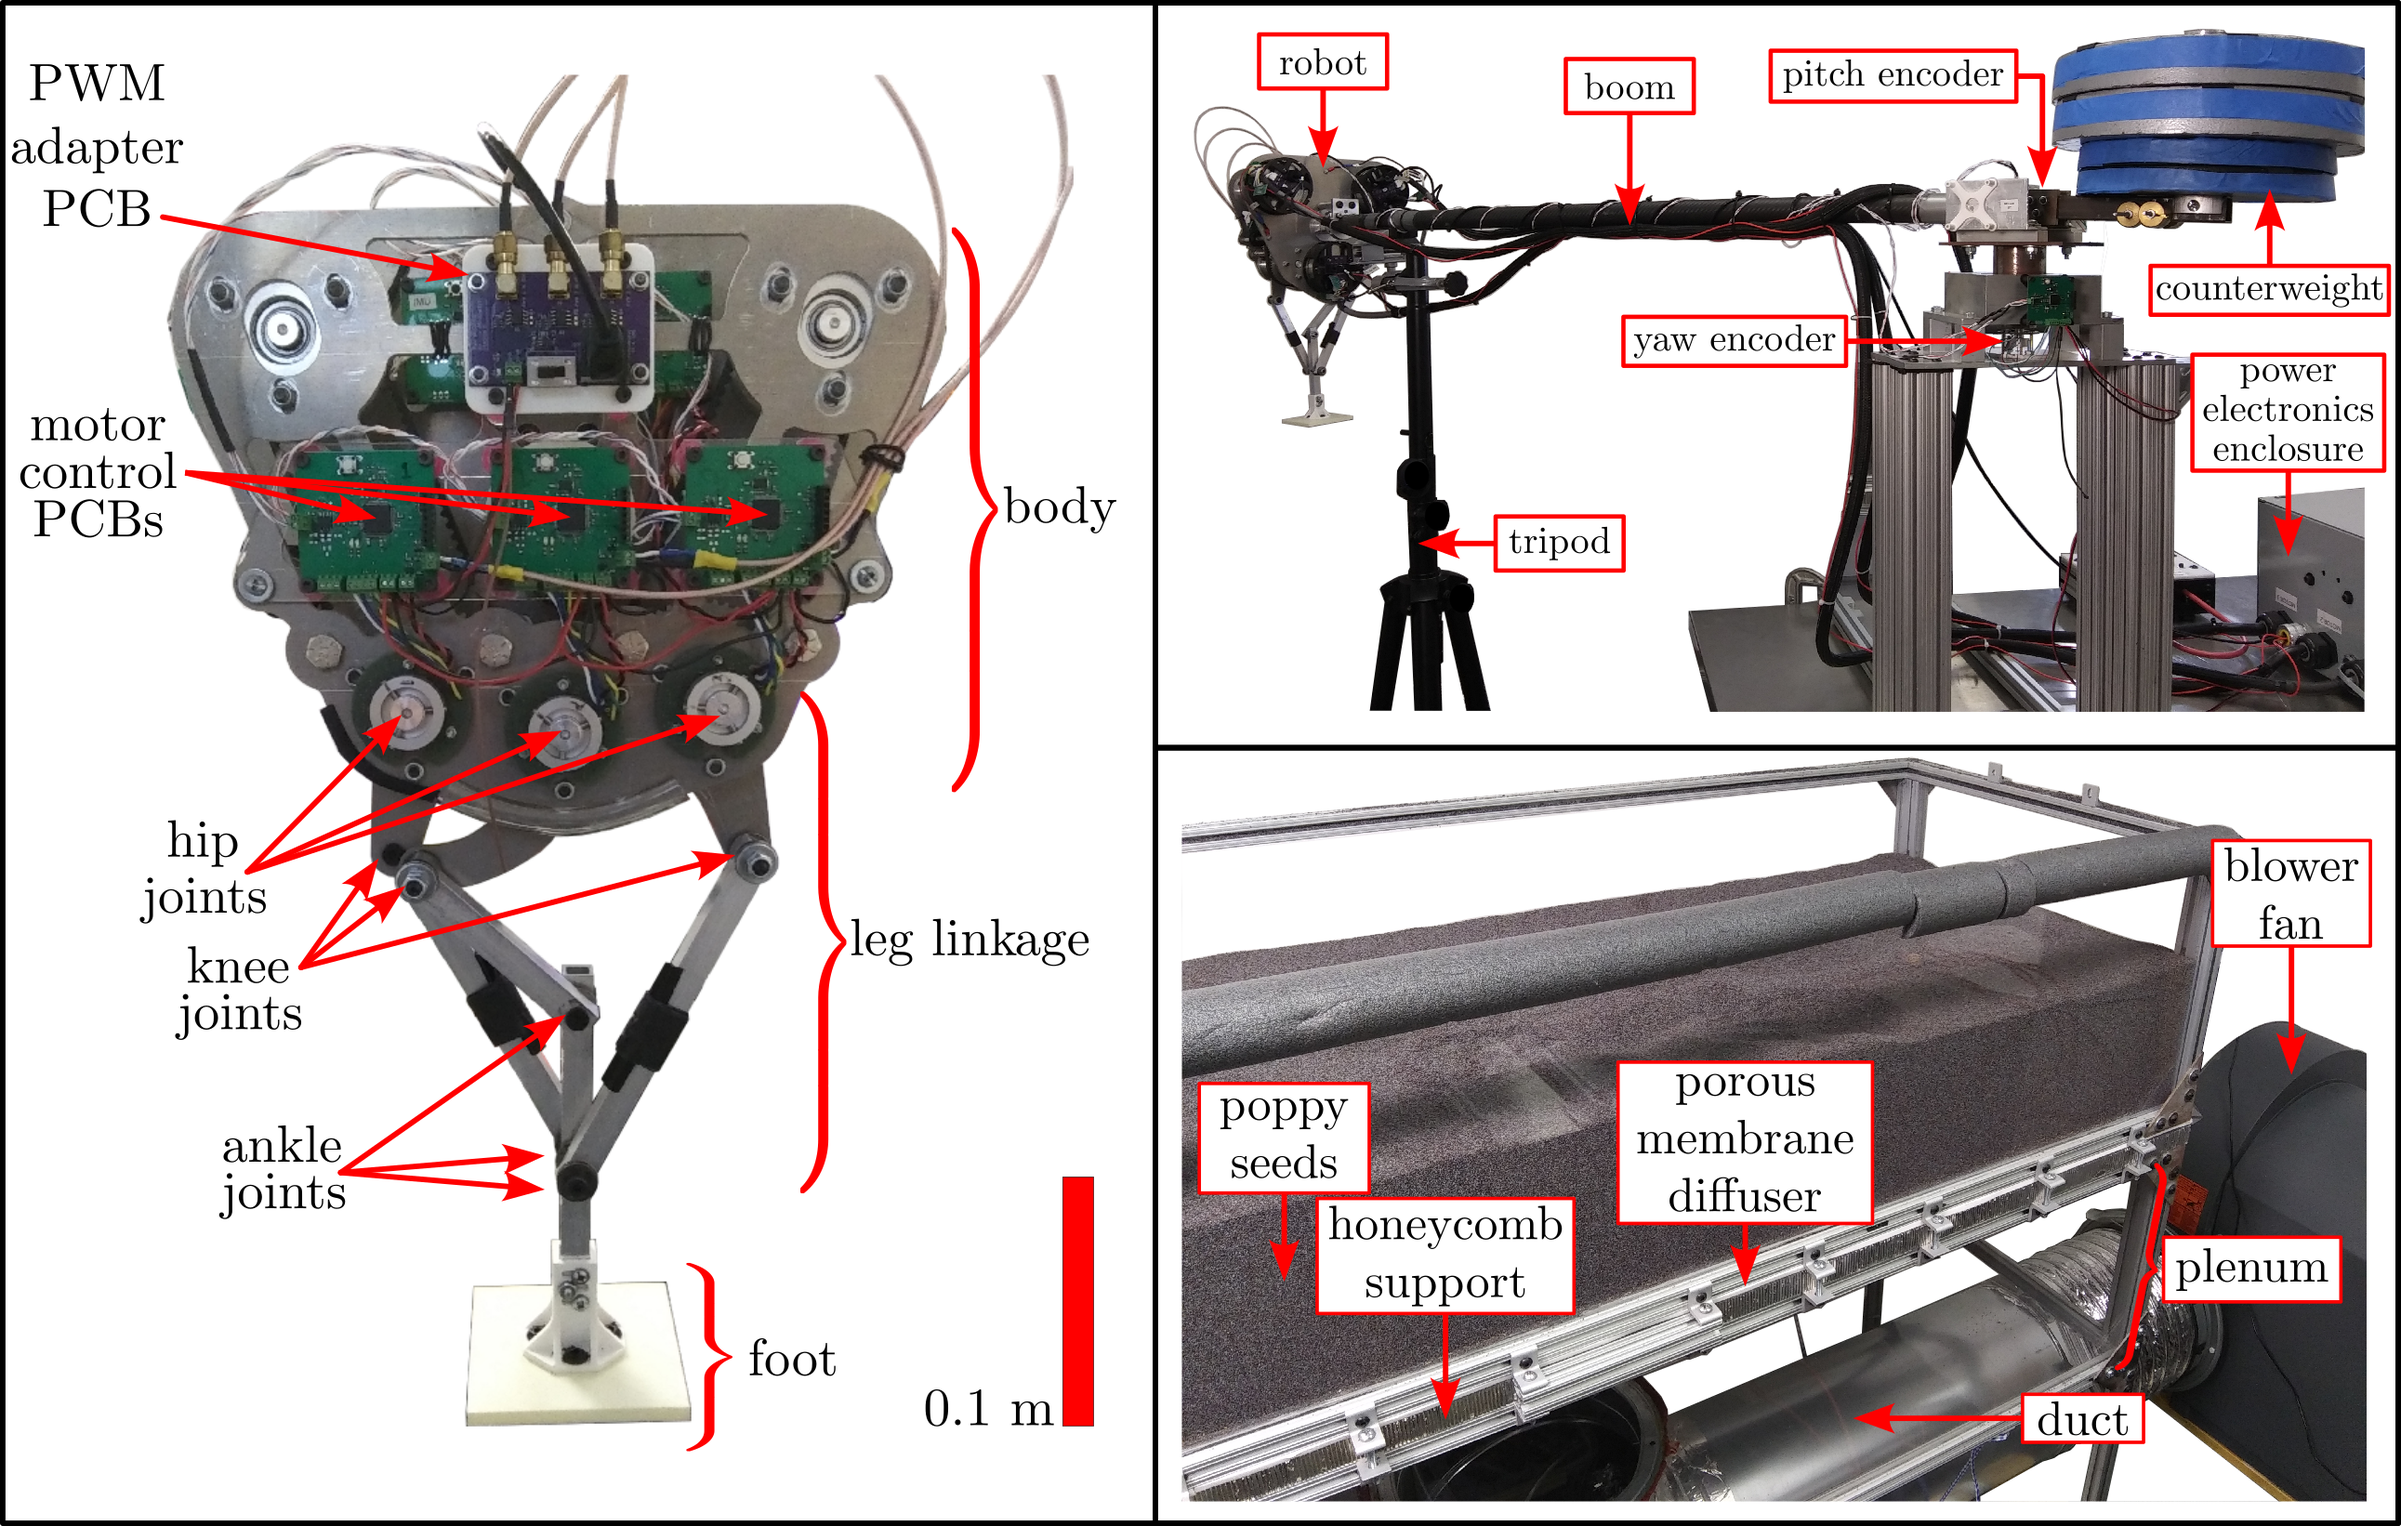
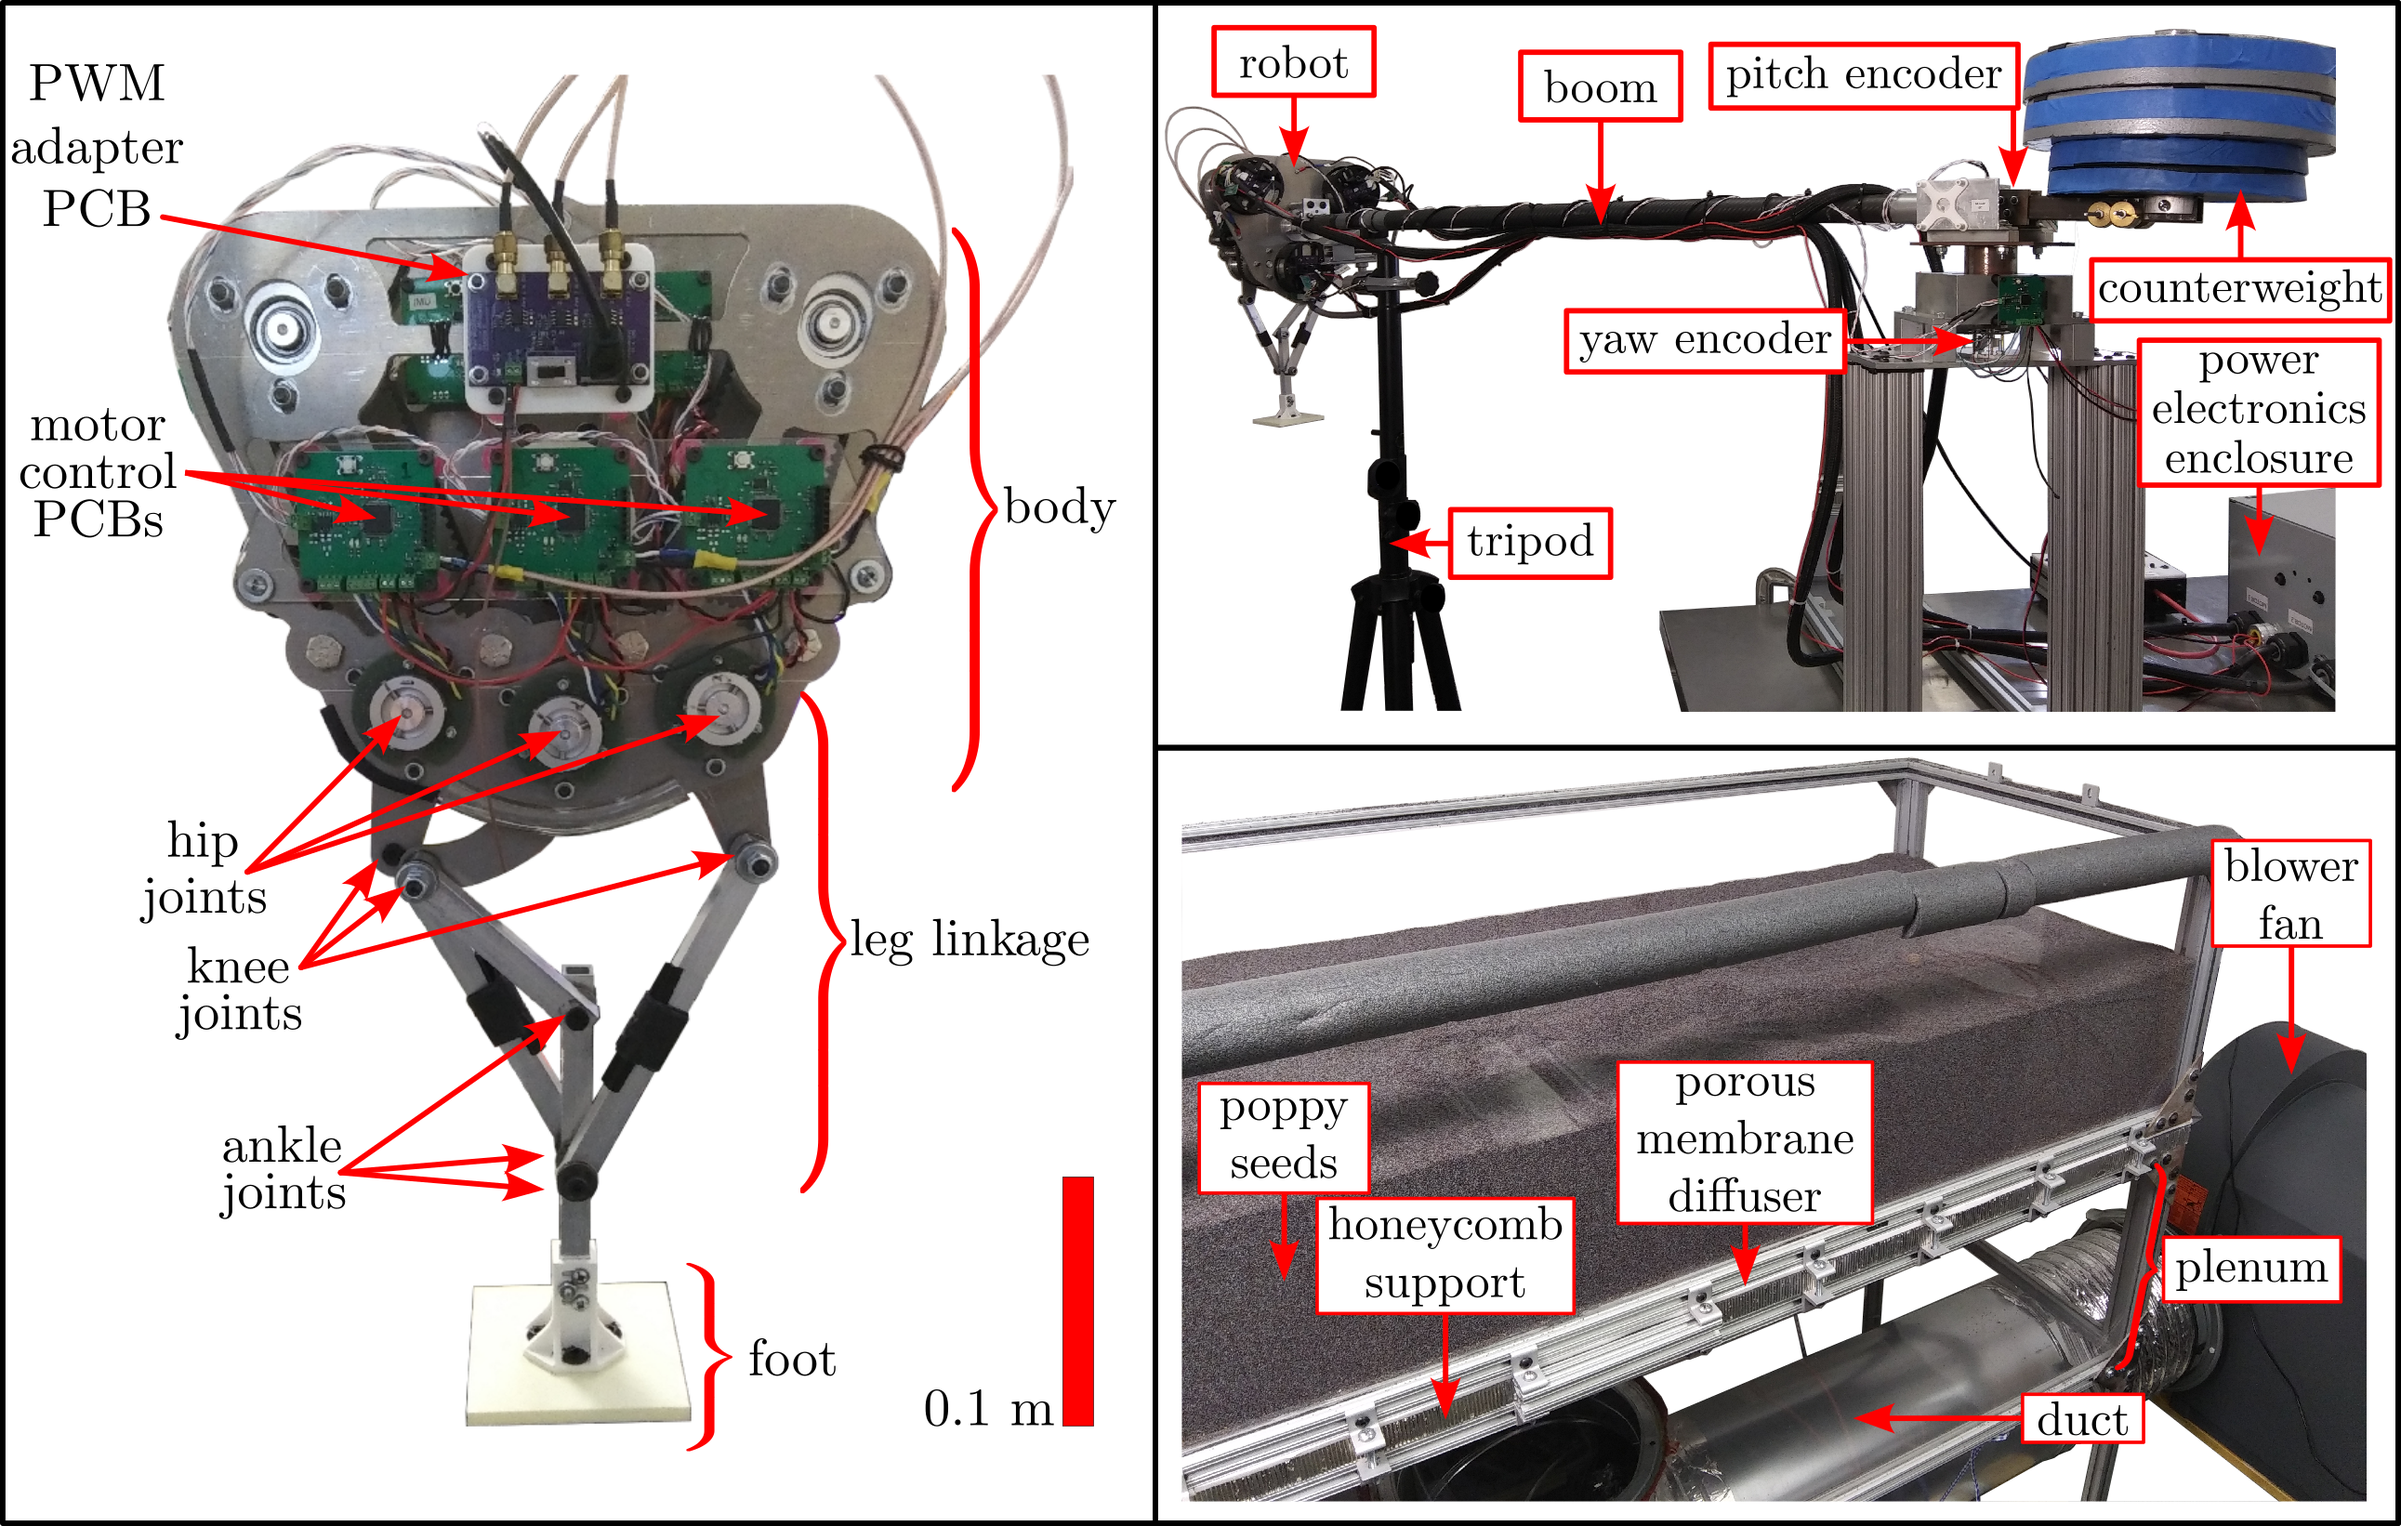
edited image

Changed region(s): [[0.4955, 0.0, 1.0, 0.4659], [0.6814, 0.4038, 0.7123, 0.4659]]

diff --git a/_portfolio/planar_hopper.md b/_portfolio/planar_hopper.md
@@ -9,7 +9,7 @@ collection: portfolio
 My doctoral research on dynamic legged locomotion on yielding terrain called for a custom robot that could hop in the sagittal plane across a bed of granular media.
 This robot is a monopod, consisting of a body and a foot, coupled by a planar three-degree-of-freedom linkage actuated by three brushless DC (BLDC) motors.
 
-While the research accomplished with this robot is the subject of an [upcoming paper](../_publications/lynch20xxplanar.md) (in preparation), this portfolio entry goes into detail on the engineering that went into the robot.
+While the research accomplished with this robot is the subject of an [upcoming paper](../../publication/lynch20xxplanar) (in preparation), this portfolio entry goes into detail on the engineering that went into the robot.
 
 ## Robot Design Principles
 
